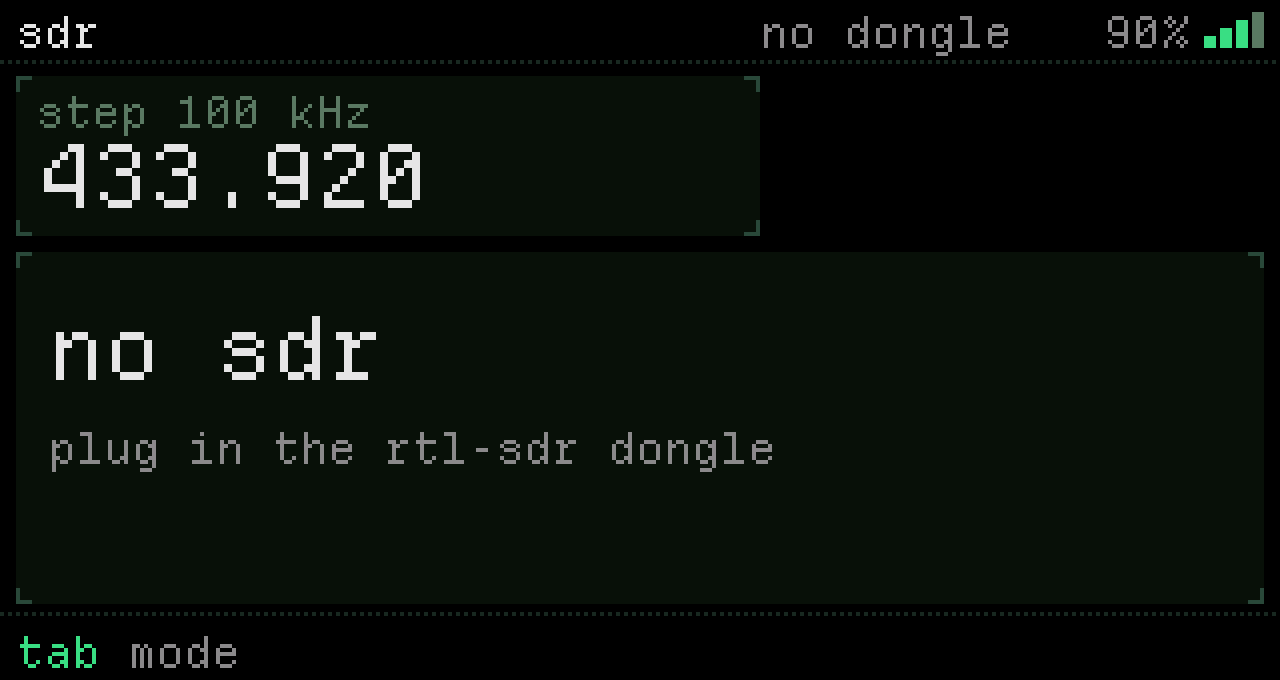
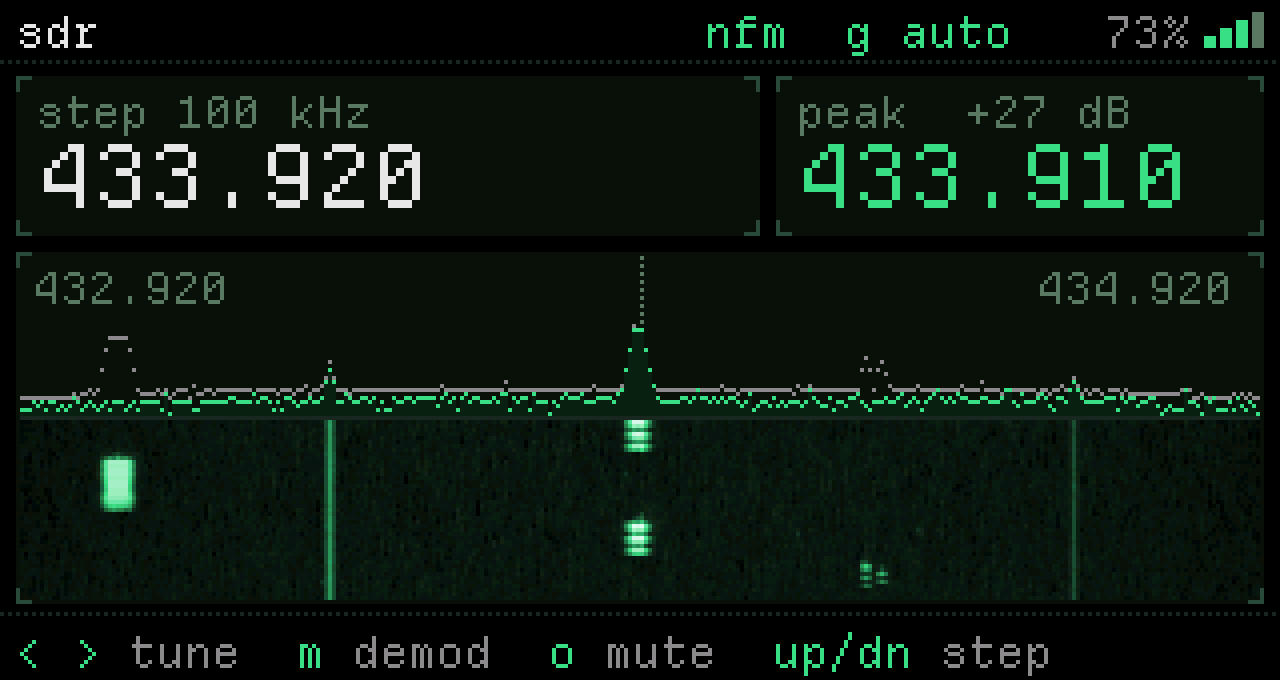
Show the SDR scope and waterfall with signals in the README
The SDR screenshot showed the "no sdr" placeholder, which says nothing
about what the app draws. The new image keeps a device capture of the
page and fills the scope, waterfall and peak readout with synthetic
433 MHz traffic rendered by a port of the page's own drawing code, so
colours, scaling and smoothing match the device.

diff --git a/README.md b/README.md
@@ -19,7 +19,7 @@ and a small set of built-in apps sharing one theme. Forked from
 |---|---|
 | <img src="docs/screenshots/home.png" width="400"><br>Home | <img src="docs/screenshots/home-2.png" width="400"><br>Home, page 2 |
 | <img src="docs/screenshots/files.png" width="400"><br>Files | <img src="docs/screenshots/files-preview.png" width="400"><br>Files: preview |
-| <img src="docs/screenshots/spectrum.png" width="400"><br>Spectrum: CC1101 RX | <img src="docs/screenshots/sdr.png" width="400"><br>SDR (waiting for a dongle) |
+| <img src="docs/screenshots/spectrum.png" width="400"><br>Spectrum: CC1101 RX | <img src="docs/screenshots/sdr.png" width="400"><br>SDR: scope and waterfall around 433.92 MHz |
 | <img src="docs/screenshots/rec.png" width="400"><br>Rec: recordings with transcripts | <img src="docs/screenshots/rec-clip.png" width="400"><br>Rec: clip |
 | <img src="docs/screenshots/audio.png" width="400"><br>Audio | <img src="docs/screenshots/lockscreen.png" width="400"><br>Lock screen |
 | <img src="docs/screenshots/settings.png" width="400"><br>Settings | <img src="docs/screenshots/settings-battery.png" width="400"><br>Settings: battery |
